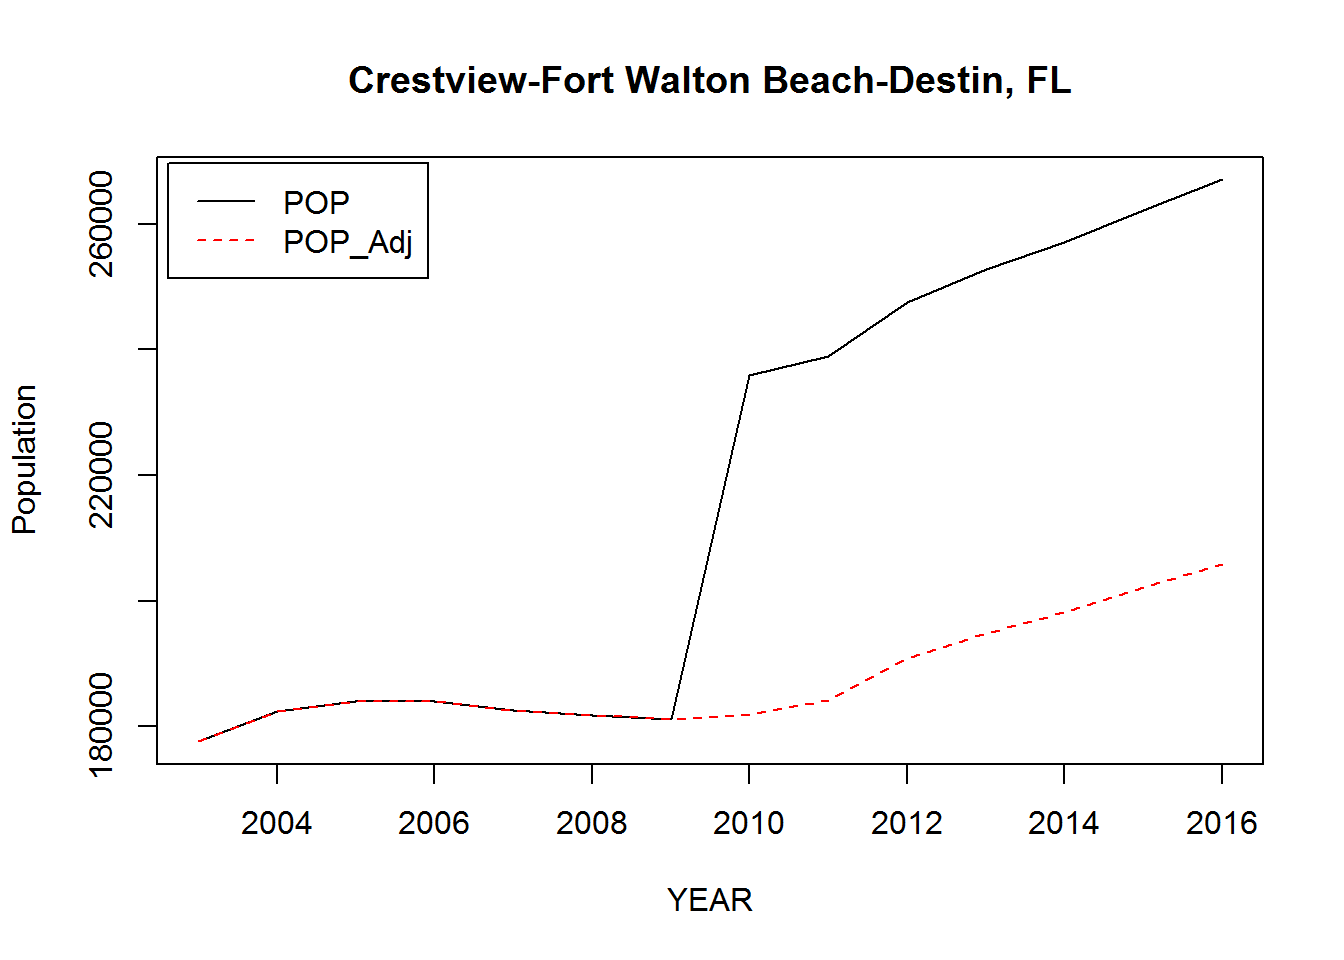
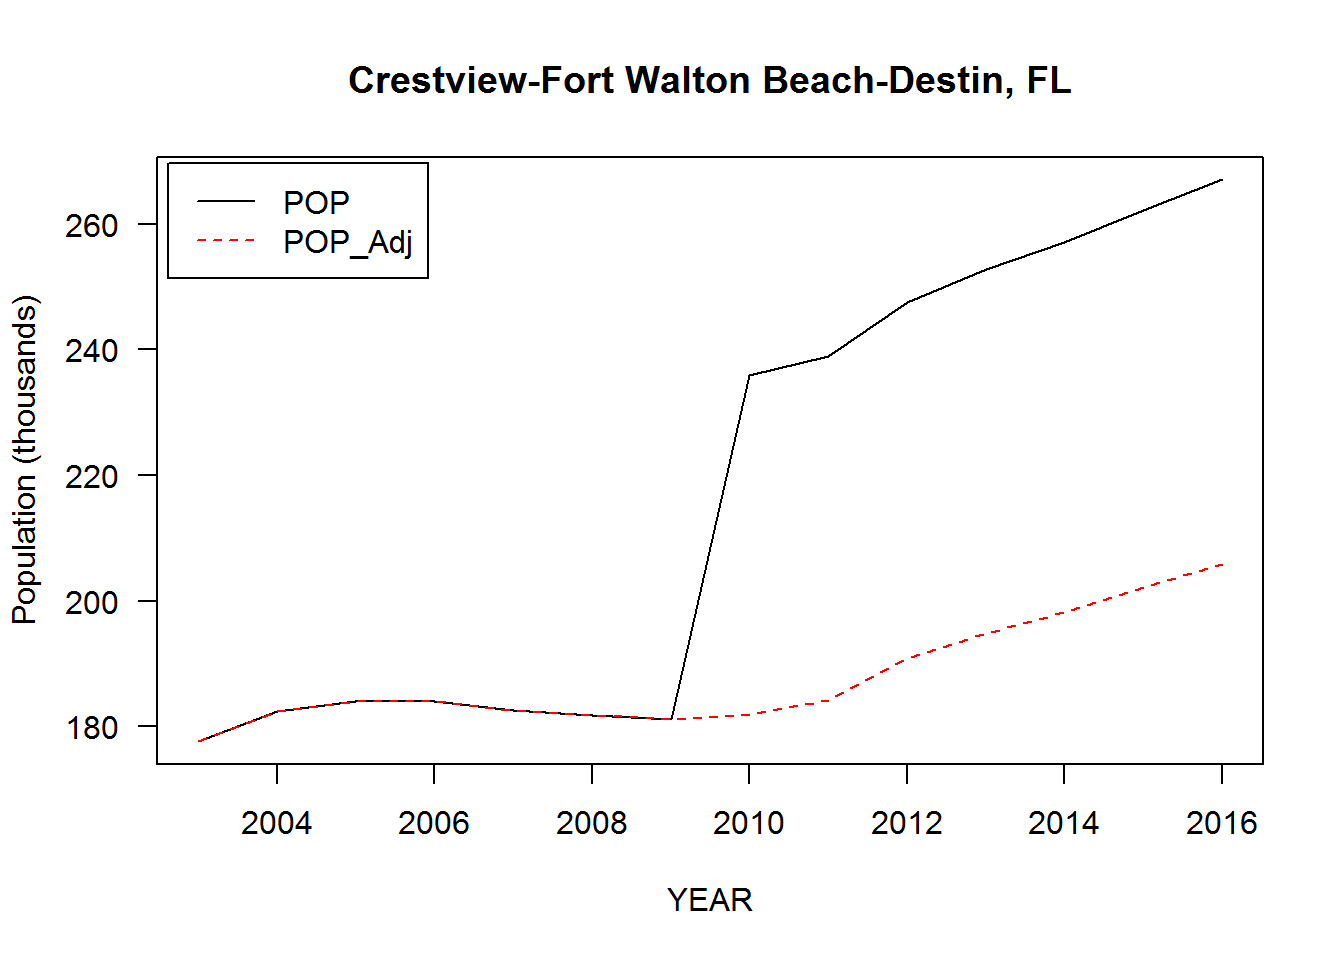
update

diff --git a/content/blog/2017-09-29-population-growth-trajectories-of-u-s-metropolitan-areas.html b/content/blog/2017-09-29-population-growth-trajectories-of-u-s-metropolitan-areas.html
@@ -153,8 +153,8 @@ msa03.16 = msa03.16[msa03.16[, .I[.N==14], by=&#39;MSA&#39;]$V1]</code></pre>
   by=&#39;MSA&#39;]
 
 with(msa03.16[MSA==18880], {
-  matplot(YEAR, cbind(POP, POP_Adj), type=&#39;l&#39;,
-          ylab=&#39;Population&#39;, main=MSA_NAME[1])
+  matplot(YEAR, cbind(POP, POP_Adj)/1000, type=&#39;l&#39;, las=1,
+          ylab=&#39;Population (thousands)&#39;, main=MSA_NAME[1])
   legend(&#39;topleft&#39;, c(&#39;POP&#39;, &#39;POP_Adj&#39;), lty=1:2, col=c(&#39;black&#39;,&#39;red&#39;),
          inset=.01)
 })</code></pre>
@@ -217,8 +217,8 @@ plotData = plotData[, .(YEAR=as.double(YEAR), MSA.short, label)][
            geom_line(data = plotData[MSA.short==&#39;MSA.Average&#39;]) +
            geom_text_repel(
              data = plotData[(Region==region | is.na(Region)) &amp; YEAR==max(YEAR)],
-             aes(label = label), size=1.5, box.padding=unit(0,&#39;lines&#39;), nudge_x=.5,
-             direction=&#39;y&#39;) +
+             aes(label = label), size=1.5, box.padding=0,
+             direction=&#39;y&#39;, xlim=c(2016.1, NA)) +
            scale_color_manual(values = c(black=&#39;black&#39;, red=&#39;red&#39;)) +
            labs(title = bquote(italic(.(region))),
                 x=&#39;&#39;, y=&#39;Population Index (Base Year = 2003)&#39;) +
